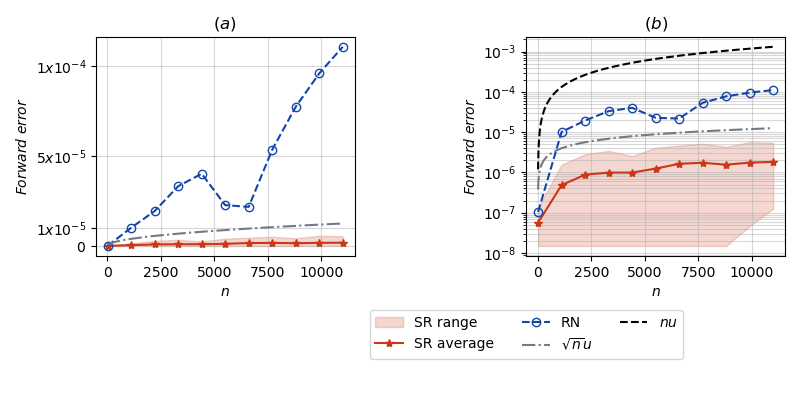
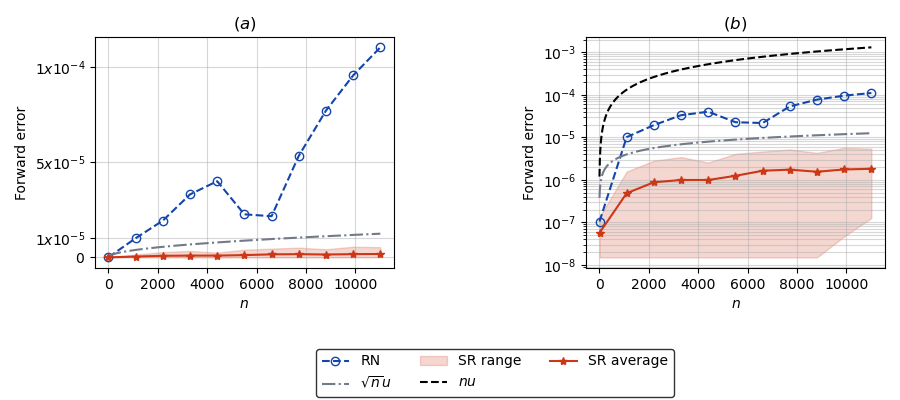
Centered legends

diff --git a/multiplication/new_plot/plot.py b/multiplication/new_plot/plot.py
@@ -29,18 +29,20 @@ for n in range(3):
         
 
     # Plots
-    fig, ax = plt.subplots(1,2, figsize=(8, 4))
+    fig, ax = plt.subplots(1,2, figsize=(9, 4))
 
     for i in range(2):
 
-        ax[i].fill_between(tab_num, sr_range[:, 0], sr_range[:, 1], color='#cb3717', alpha=0.2, label='SR range') 
-        ax[i].plot(tab_num, sr_mean, marker='*', color='#cb3717', label='SR average')
         ax[i].plot(tab_num, rn, linestyle= '--', color='#1446aa', marker='o', markerfacecolor='none', label='RN')
         ax[i].plot(x, np.sqrt(x)*(2**(-23)), linestyle='-.', color='#727a88', label='$\sqrt{n}u$')
+        ax[i].fill_between(tab_num, sr_range[:, 0], sr_range[:, 1], color='#cb3717', alpha=0.2, label='SR range')
+        if (i==1) : 
+            ax[i].plot(x, x*(2**(-23)), 'k--',label='$nu$') 
+        ax[i].plot(tab_num, sr_mean, marker='*', color='#cb3717', label='SR average')
 
         ax[i].grid(True, which='both', linestyle='-', alpha=0.5)
         ax[i].set_xlabel('$n$')
-        ax[i].set_ylabel('$Forward$ $error$')
+        ax[i].set_ylabel('Forward error')
 
 
     # Paramètres supplémentaires pour le 1e plot
@@ -49,14 +51,14 @@ for n in range(3):
     ax[0].set_title('$(a)$')
 
     # Paramètres supplémentaires pour le 2e plot
-    ax[1].plot(x, x*(2**(-23)), 'k--',label='$nu$')
     ax[1].set_yscale('log')
     ax[1].set_title('$(b)$')
 
 
     # Légendes communes
-    plt.legend(bbox_to_anchor=(0, -0.5), loc='lower center', ncol=3)
-    plt.subplots_adjust(bottom=0.2)
-    plt.tight_layout()
+    plt.legend(loc = 'lower center', ncol=3, bbox_to_anchor = (0.05, -0.01, 1, 1),
+           bbox_transform = plt.gcf().transFigure, edgecolor='black')
+    plt.subplots_adjust(bottom=0.3)
+    fig.tight_layout()
 
     plt.savefig(f'plot_sum_{n}.png')
